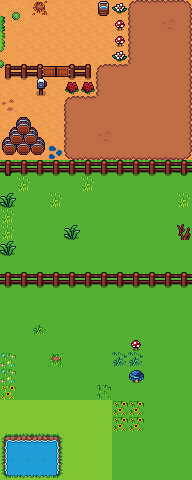
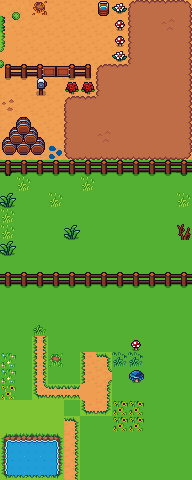
Fix mill body assembly and update farm background
- Rebuild mill.png from user's Tiled design (roof + mechanism housing + body + door)
- Update mill blade animation CSS (160×160 at 2× scale) and JS marginTop
- Update farm background with new terrain design, pond preserved

Changed region(s): [[0.1562, 0.6875, 0.5938, 1.0]]

diff --git a/themes/terminal-books/assets/css/farm-page.css b/themes/terminal-books/assets/css/farm-page.css
@@ -1032,12 +1032,12 @@
   to { background-position: -94px 0; }
 }
 
-/* Mill windmill blades — 4 frames of 66×66, always spinning */
+/* Mill windmill blades — 4 frames of 160×160 (80×80 native at 2×), always spinning */
 .fp-anim-mill-blades {
-  width: 66px;
-  height: 66px;
+  width: 160px;
+  height: 160px;
   background: url('/images/farm/animations/mill-blades.png') 0 0 no-repeat;
-  background-size: 264px 66px;
+  background-size: 640px 160px;
   image-rendering: pixelated;
   image-rendering: crisp-edges;
   z-index: 3;
@@ -1045,7 +1045,7 @@
   animation: fp-anim-mill-blades 2s steps(4) infinite;
 }
 @keyframes fp-anim-mill-blades {
-  to { background-position: -264px 0; }
+  to { background-position: -640px 0; }
 }
 
 /* ── Static station sizing — centered fixed-size to match animated stations ── */

diff --git a/themes/terminal-books/assets/js/farm-page.js b/themes/terminal-books/assets/js/farm-page.js
@@ -717,8 +717,8 @@
       addAnim('fp-anim-fountain', 11, 2, 1, 2, 96, 128);
     }
 
-    // Mill windmill blades — disabled for now
-    // addAnim('fp-anim-mill-blades', 12, 4, 2, 1, 66, 66, { marginTop: (-66 + 5) + 'px', marginLeft: (-50) + 'px' });
+    // Mill windmill blades — always spinning, centered on roof hub
+    addAnim('fp-anim-mill-blades', 9, 2, 2, 2, 160, 160, { marginTop: '-123px' });
 
 
     // ── Farm animals that wander near their buildings ─────
